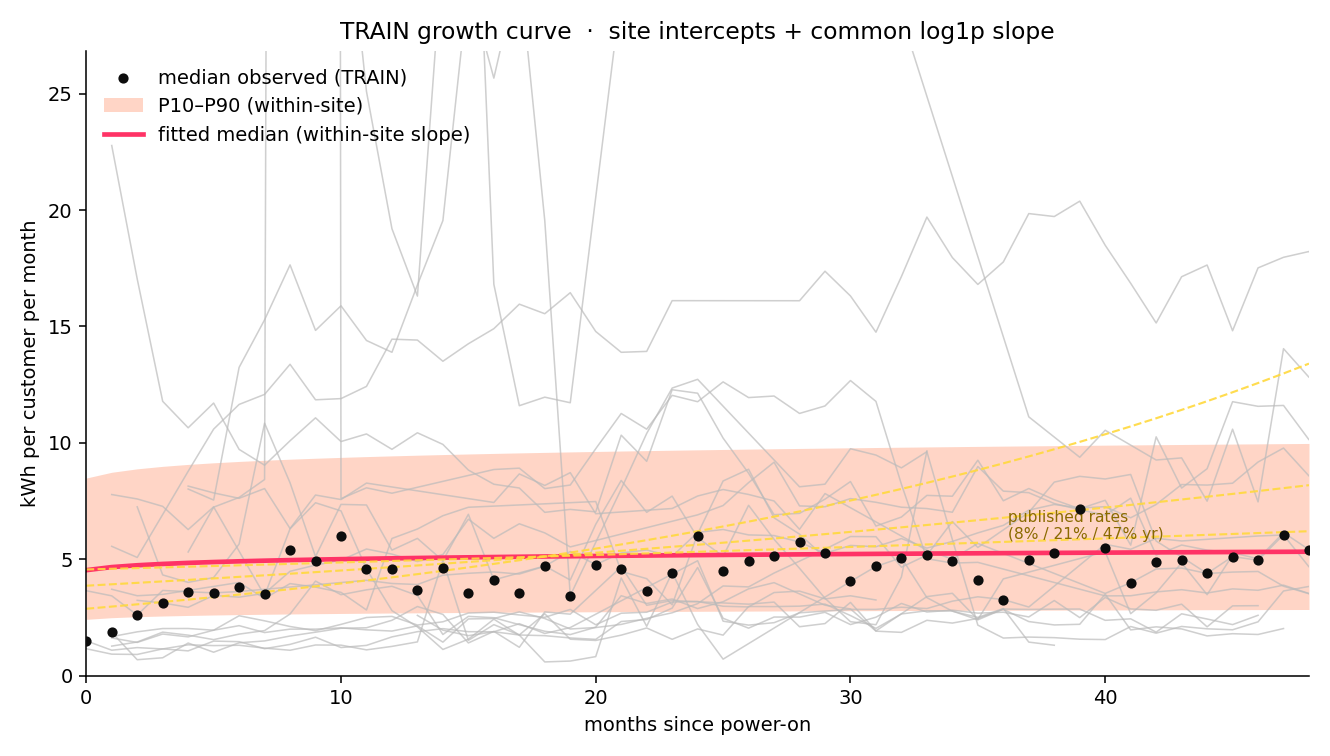
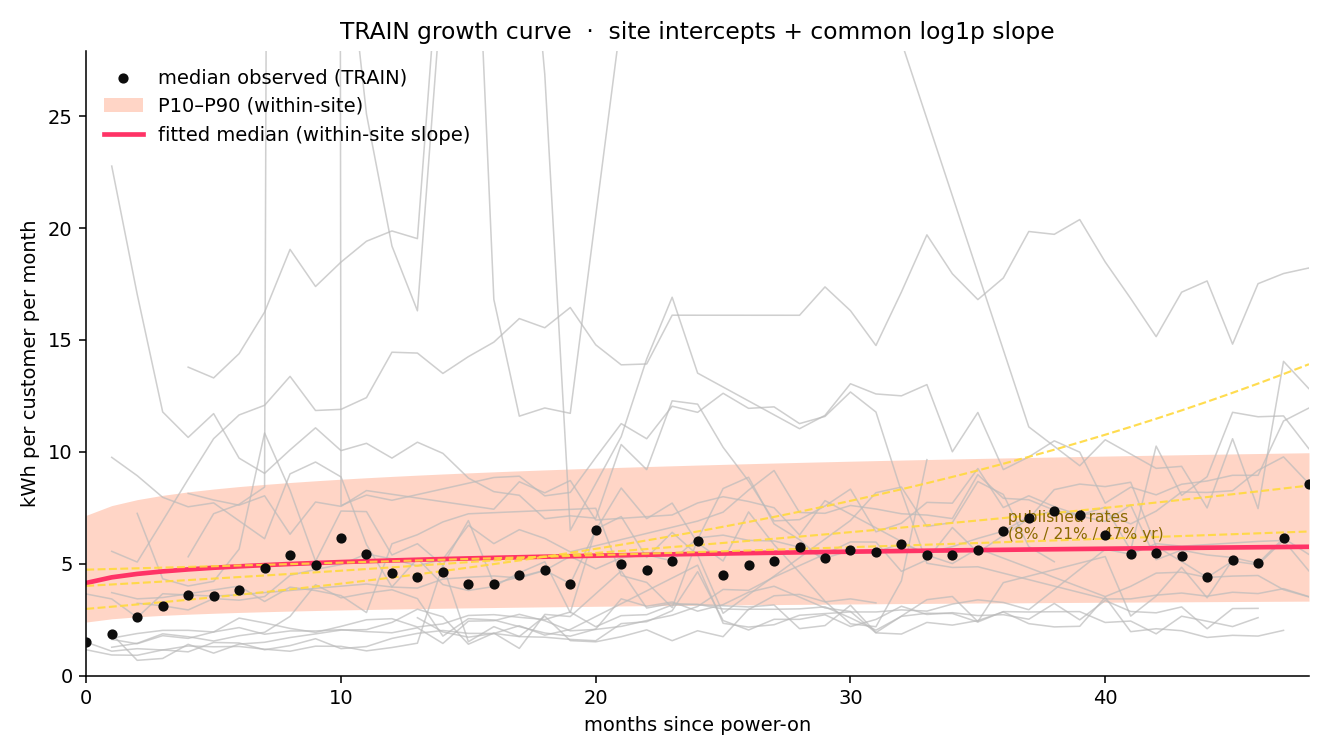
Use gap-filled kWh for all TRAIN sites: imputed slots conserve the meter register.

diff --git a/pawacast/model/loglinear.py b/pawacast/model/loglinear.py
@@ -33,6 +33,10 @@ REF_BLD = 300.0          # typical rural village, buildings within 1 km (documen
 RIDGE_LAMBDA = 2.0       # prior β ~ 0; λ chosen a priori, not by the reporting CV
 IMPUTATION_SITES = ("Emereoke", "Kalobeyei Settlement")
 IMPUTATION_THRESHOLD = 0.15
+# Decision (Block 2, after reading the clean-product spec): profile/uniform slots
+# redistribute the meter's cumulative `energy` register across comms gaps; the
+# total is conserved. observed_only undercounts. Use gap-filled kwh_cust_month
+# for every TRAIN site. See EVAL_PLAN.md Deviations.
 FEATURES_PATH = (
     __import__("pathlib").Path(__file__).resolve().parents[2] / "data" / "features" / "renewvia.parquet"
 )
@@ -60,24 +64,20 @@ def imputation_check(sm: pd.DataFrame) -> pd.DataFrame:
                 "median_abs_rel": float(rel.abs().median()),
                 "window_rel": win_rel,
                 "candidate": site in IMPUTATION_SITES,
-                "use_observed_only": bool(
-                    site in IMPUTATION_SITES and rel.abs().median() > IMPUTATION_THRESHOLD
-                ),
+                # Always False: imputed energy is conserved register consumption.
+                "use_observed_only": False,
             }
         )
     return pd.DataFrame(rows).sort_values("median_abs_rel", ascending=False).reset_index(drop=True)
 
 
 def apply_imputation(sm: pd.DataFrame, check: pd.DataFrame | None = None) -> tuple[pd.DataFrame, list[str]]:
+    """Always keep gap-filled kWh. `check` is retained as a diagnostic."""
     if check is None:
         check = imputation_check(sm)
-    switched = check.loc[check.use_observed_only, "projectName"].tolist()
     out = sm.copy()
     out["kwh_used"] = out.kwh_cust_month
-    if switched:
-        m = out.projectName.isin(switched)
-        out.loc[m, "kwh_used"] = out.loc[m, "kwh_cust_month_observed_only"]
-    return out, switched
+    return out, []
 
 
 def site_level_targets(sm: pd.DataFrame) -> pd.DataFrame:

diff --git a/pawacast/model/cv_train.py b/pawacast/model/cv_train.py
@@ -204,10 +204,24 @@ def run() -> dict:
         "n_groups": int(sites.group.nunique()),
         "sealed_test_sites": sealed,
         "imputation": {
+            "decision": "gap_filled_for_all_train_sites",
+            "reason": (
+                "profile/uniform slots redistribute the cumulative energy register "
+                "across communication gaps (conserved to 1e-5). observed_only undercounts."
+            ),
             "threshold": 0.15,
             "candidates": list(IMPUTATION_SITES),
             "switched_to_observed_only": switched,
             "per_site": check[check.candidate].to_dict(orient="records"),
+            "emereoke_window_12_24": {
+                "gapfilled": float(
+                    sites.loc[sites.projectName == "Emereoke", "kwh_gapfilled"].iloc[0]
+                ),
+                "observed_only": float(
+                    sites.loc[sites.projectName == "Emereoke", "kwh_observed_only"].iloc[0]
+                ),
+                "used": float(sites.loc[sites.projectName == "Emereoke", "kwh"].iloc[0]),
+            },
         },
         "predictors": [
             "AMDA country baseline (offset / prior)",

diff --git a/tests/test_cv_train_seal.py b/tests/test_cv_train_seal.py
@@ -16,12 +16,15 @@ def test_site_level_excludes_test_sites():
     assert set(TEST_SITES).isdisjoint(set(switched))
 
 
-def test_imputation_switches_high_gap_sites():
-    sm = load_site_months(role="train")
-    check = imputation_check(sm)
-    flagged = set(check.loc[check.use_observed_only, "projectName"])
-    assert "Emereoke" in flagged
-    assert "Kalobeyei Settlement" in flagged
+def test_imputation_does_not_switch_after_conservation_decision():
+    sites, sm, check, switched = load_train_sites()
+    assert switched == []
+    assert not check.use_observed_only.any()
+    em = check.loc[check.projectName == "Emereoke"].iloc[0]
+    ks = check.loc[check.projectName == "Kalobeyei Settlement"].iloc[0]
+    assert em.median_abs_rel > 0.15 and ks.median_abs_rel > 0.15
+    # training target is gap-filled for every site
+    assert (sm.kwh_used == sm.kwh_cust_month).all()
 
 
 def test_load_test_still_sealed(monkeypatch):

diff --git a/CHANGELOG.md b/CHANGELOG.md
@@ -32,6 +32,7 @@ Times are ET. The line between pre-sprint and sprint work is the git tag `geh202
 - Log-linear model with AMDA country offset (KE 3.7 / NG 11.0) and one fitted predictor, log(building count / 300), ridge λ=2. Footprint, grid distance, POIs and night lights dropped (weak or confounded on TRAIN). P10/P90 from residual log-sd (σ≈0.72), not v0 SIGMA.
 - Leave-one-group-out CV over 13 TRAIN groups (`results/cv_train.json`, `results/cv_train_sites.csv`): PawaCast median APE 45%, coverage 83% (15/18), P90/P10 6.3, bias +0.08. AMDA 52% / 78% / 5.3 / +0.25; v0 55% / 56% / 5.3 / −0.01; brief 20 kWh 282%. Not frozen. Test sites not used.
 - Growth: site intercept + common log1p(month) slope on TRAIN site-months. Common within-site growth ≈7%/year (near Blodgett 8%); 12→24 months only ≈3%. Published 8% / 21% / 47% all sit inside the wide per-site slope band. Figure `results/growth_curve.png`.
+- Imputation decision (docs + TRAIN check on Emereoke / Kalobeyei Settlement): `profile`/`uniform` redistribute the cumulative `energy` register across comms gaps (conserved to 1e-5), they do not invent kWh. Reverted to gap-filled `kwh_cust_month` for **all** TRAIN sites. Emereoke 12–24 actual: 5.09 gap-filled vs 2.09 observed_only. Re-ran LOGO CV: PawaCast median APE 46.1%, coverage 72% (13/18), P90/P10 4.93, bias +0.03 (was 45.3% / 83% / 6.3 / +0.08 with observed_only on two sites). AMDA 52% / v0 55% / brief 20 kWh 266%. Logged under EVAL_PLAN Deviations. Not frozen. Test sites not opened.
 
 ### Hours 12–16
 ### Hours 16–24

diff --git a/EVAL_PLAN.md b/EVAL_PLAN.md
@@ -84,4 +84,14 @@ Licence: CC BY-SA 4.0 — any derived dataset we publish (site-month aggregates)
 
 ## Deviations
 
-None yet.
+### 31 Oct 2026 — TRAIN target uses gap-filled kWh for every site
+
+Block 2 first treated `profile`/`uniform` slots as possibly invented and switched Emereoke and Kalobeyei Settlement to `kwh_cust_month_observed_only` (median |rel. diff.| 44% and 58%).
+
+The clean product does **not** invent energy. It diffs the meter’s cumulative `energy` register and redistributes a known gap total onto missed 15-minute slots (`Data Dictionary.md`, sparkmeterreadings_clean: “redistributing gap energy”; “sum of `energy_kwh` … equals the sum of valid raw energy diffs to within 1 × 10⁻⁵”). Null/invalid diffs produce no rows. `observed_only` therefore undercounts real consumption.
+
+**Change:** all TRAIN sites use gap-filled `kwh_cust_month`. R-test readings files were not opened.
+
+**CV before the change** (observed_only on those two sites): PawaCast median APE 45.3%, coverage 83% (15/18), P90/P10 6.3, bias +0.08. Emereoke 12–24 month actual 2.09 kWh.
+
+**CV after** (gap-filled for all 18): PawaCast median APE 46.1%, coverage 72% (13/18), P90/P10 4.93, bias +0.03. Emereoke 12–24 month actual 5.09 kWh. AMDA 52.0% / v0 55.5% / brief 20 kWh 266%. Model not frozen.
